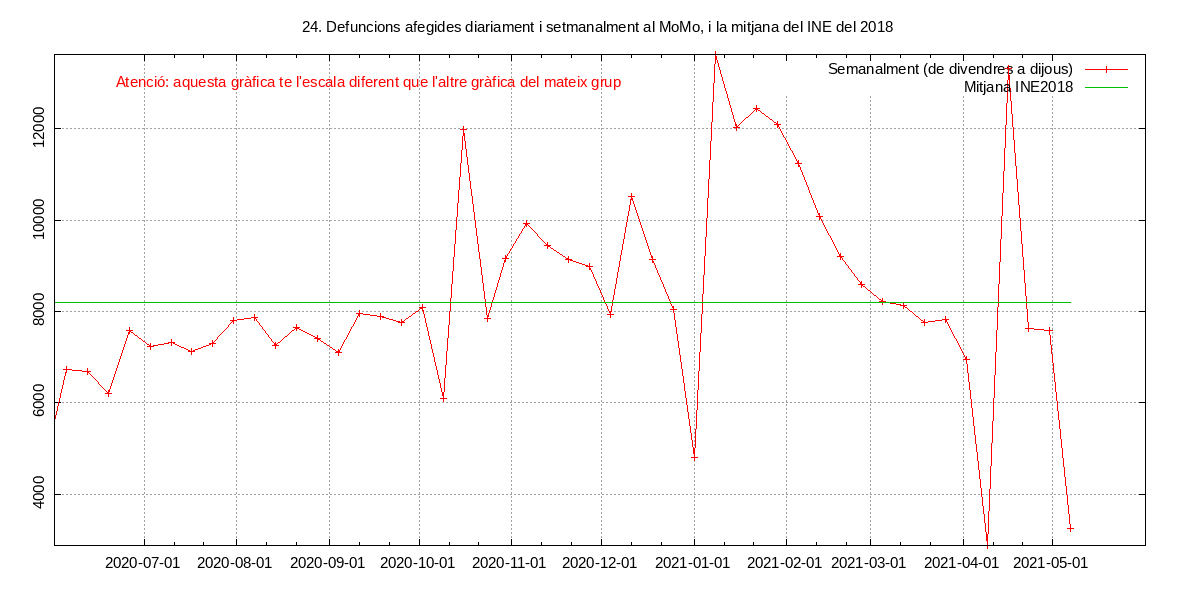
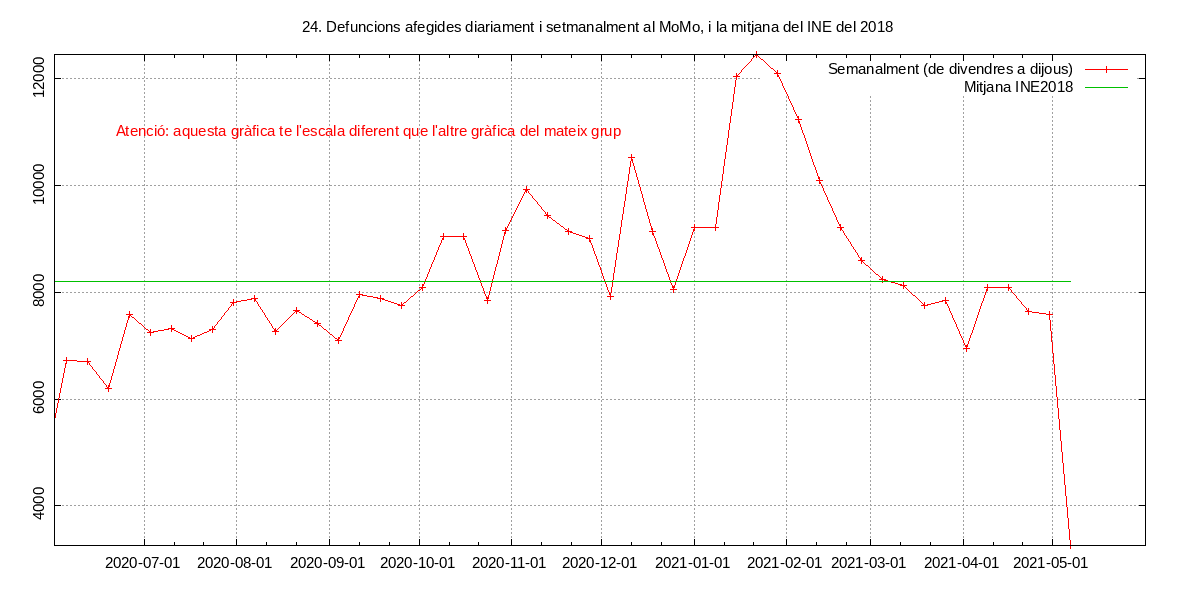
Fer millores al plot24 setmanal per tal d'evitar variacions molt grans, ara s'aplica una correcció que unifica el calcul de dues setmanes per evitar pics al plot

diff --git a/php/plot24.php b/php/plot24.php
@@ -45,11 +45,26 @@ if(!file_exists("output/plot24${lang}1.png")) {
 		}
 		foreach($matrix2 as $key2=>$val2) {
 			$matrix2[$key2][2]=$media*7;
+			$matrix2[$key2][3]=$key2;
 		}
 	}
+	// CORRECCIONS
+	$correccions=array(
+		array("2021-01","2021-02"),
+		array("2021-15","2021-16"),
+		array("2020-42","2020-43"),
+	);
+	foreach($correccions as $correccio) {
+		$matrix2[$correccio[0]][4]=$matrix2[$correccio[0]][1];
+		$matrix2[$correccio[1]][4]=$matrix2[$correccio[1]][1];
+		$temp=($matrix2[$correccio[0]][1]+$matrix2[$correccio[1]][1])/2;
+		$matrix2[$correccio[0]][1]=$temp;
+		$matrix2[$correccio[1]][1]=$temp;
+	}
+	// CONTINUAR
 	array_unshift($matrix1,array($textos["plot24"]["fecha"][$lang],$textos["plot24"]["diario"][$lang],$textos["plot24"]["media"][$lang]));
 	export_file("middle/plot24${lang}1.csv",$matrix1);
-	array_unshift($matrix2,array($textos["plot24"]["fecha"][$lang],$textos["plot24"]["semanal"][$lang],$textos["plot24"]["media"][$lang]));
+	array_unshift($matrix2,array($textos["plot24"]["fecha"][$lang],$textos["plot24"]["semanal"][$lang],$textos["plot24"]["media"][$lang],$textos["plot24"]["semana"][$lang],$textos["plot24"]["original"][$lang]));
 	export_file("middle/plot24${lang}2.csv",$matrix2);
 	$gnuplot=implode("\n",array(
 		"set terminal png size 1200,600 enhanced font ',11'",
@@ -75,7 +90,7 @@ if(!file_exists("output/plot24${lang}1.png")) {
 		"plot 'middle/plot24${lang}1.csv' u 1:2 w l ti col, '' u 1:3 w l ti col",
 		"set ytics 0,2000,20000",
 		"set output 'output/plot24${lang}2.png'",
-		"set label 1 \"".$textos["plot24"]["escala"][$lang]."\" at '2020-09-15',13000 c tc lt 1",
+		"set label 1 \"".$textos["plot24"]["escala"][$lang]."\" at '2020-09-15',11000 c tc lt 1",
 		"plot 'middle/plot24${lang}2.csv' u 1:2 w lp ti col, '' u 1:3 w l ti col",
 	))."\n";
 	file_put_contents("middle/plot24${lang}.gnu",$gnuplot);

diff --git a/php/langs.php b/php/langs.php
@@ -399,6 +399,16 @@ $textos=array(
 			"es"=>"Media INE2018",
 			"en"=>"Median INE2018",
 		),
+		"semana"=>array(
+			"ca"=>"Any i setmana",
+			"es"=>"Año y semana",
+			"en"=>"Year and week",
+		),
+		"original"=>array(
+			"ca"=>"Original sense correcció",
+			"es"=>"Original sin corrección",
+			"en"=>"Original without correction",
+		),
 	),
 );
 
